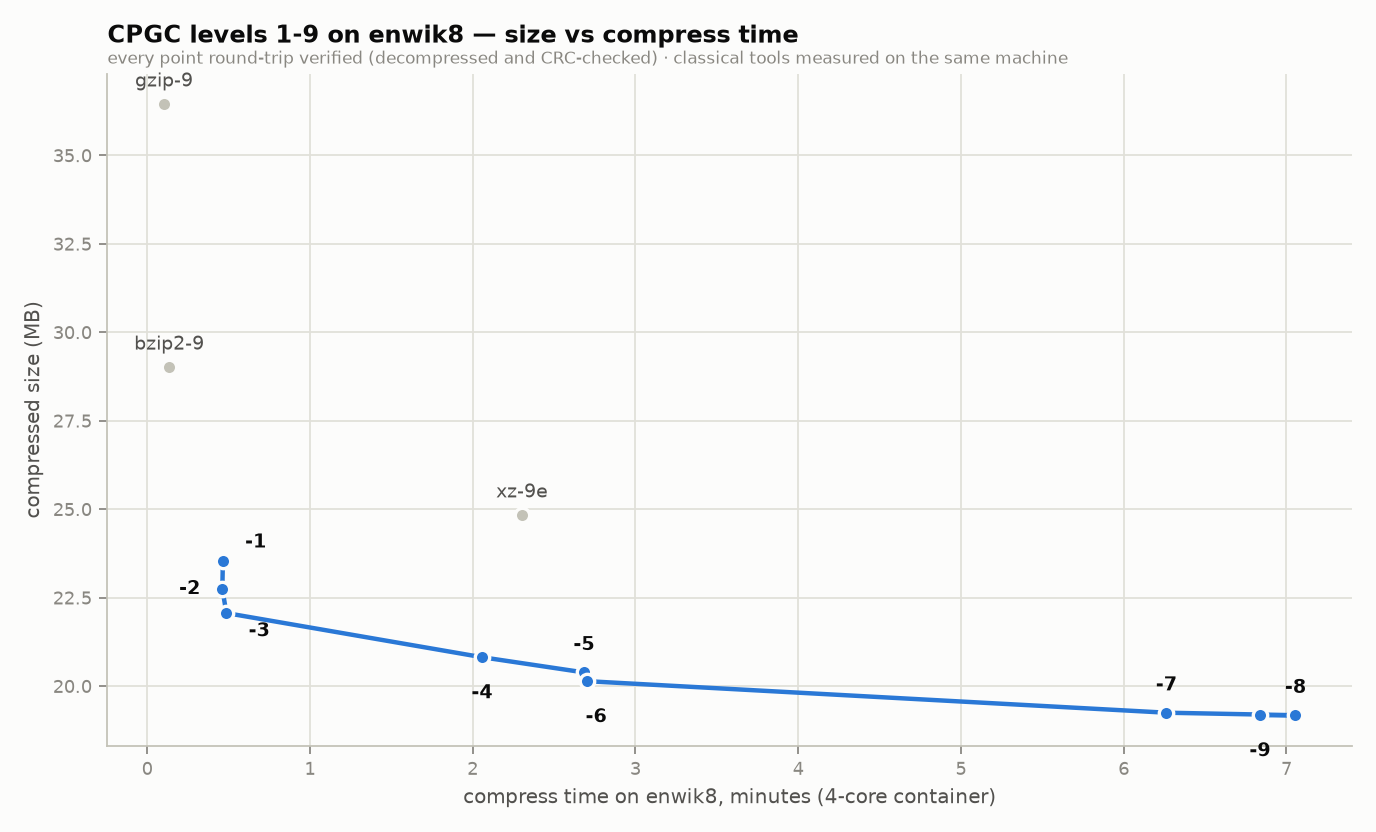
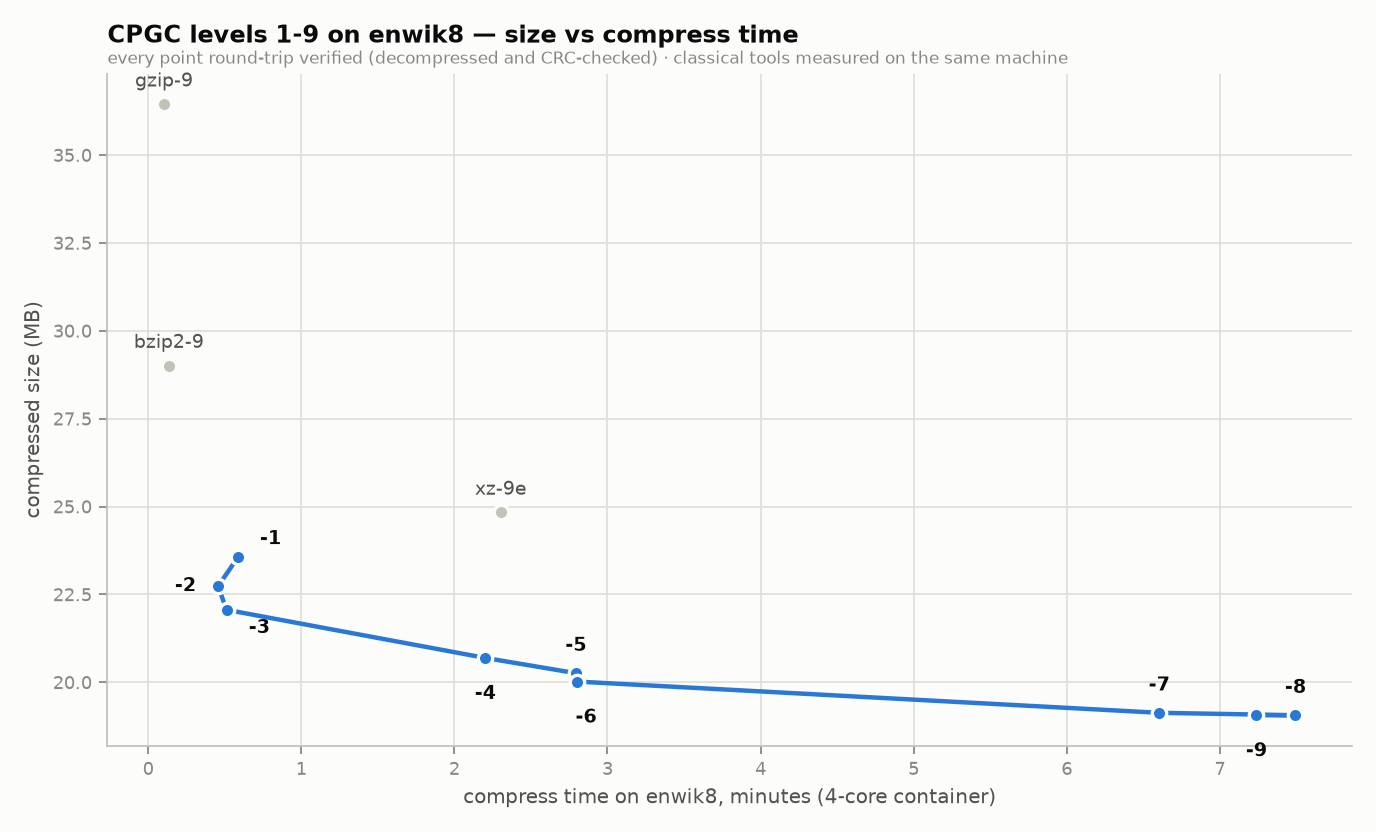
Refresh enwik8 and enwik9 benchmarks for v12
Re-run both sweeps with the v12 engine on a clean four-core container
(every level compressed and round-trip CRC-verified), refresh
results.csv and enwik9_results.csv, regenerate all three charts, and
update the README tables, headlines, and format-version reference.

enwik8 level 9 drops to 19,063,181 bytes (1.525 bpc); enwik9 level 9 to
162,750,488 bytes (1.302 bpc) — 0.6-0.7% below v11 and 5.0-5.6% below
the original v9. Every full-model level improves; turbo levels are
within measurement noise (v12's SSE-chain retune is full-profile only).

Claude-Session: https://claude.ai/code/session_012eHpCeH6DZ7CNZ9Yp9UYKc

diff --git a/README.md b/README.md
@@ -146,7 +146,7 @@ and test actions for `.cpgc` and `.cpas` archives.
 
 [enwik8](https://mattmahoney.net/dc/textdata.html) is the first 100 MB of the
 English Wikipedia dump, a standard text-compression benchmark. At level 9 CPGC
-compresses it to **19,178,089 bytes (1.534 bpc)** — smaller than every
+compresses it to **19,063,181 bytes (1.525 bpc)** — smaller than every
 general-purpose codec below; the research compressors zpaq, PAQ8, and cmix
 still lead. Every archive was round-trip decompressed and CRC-verified.
 
@@ -158,15 +158,15 @@ The nine levels trade compress time for ratio:
 
 | Level | Compressed size | Bits/byte | Compress | Decompress |
 |---:|---:|---:|---:|---:|
-| 1 | 23,539,435 B | 1.883 | 28 s | 25 s |
-| 2 | 22,743,019 B | 1.819 | 28 s | 25 s |
-| 3 | 22,065,155 B | 1.765 | 29 s | 28 s |
-| 4 | 20,818,067 B | 1.665 | 123 s | 126 s |
-| 5 | 20,388,399 B | 1.631 | 161 s | 164 s |
-| 6 | 20,140,482 B | 1.611 | 162 s | 164 s |
-| 7 | 19,249,638 B | 1.540 | 376 s | 367 s |
-| 8 | 19,178,089 B | 1.534 | 423 s | 415 s |
-| 9 | **19,178,089 B** | **1.534** | 410 s | 438 s |
+| 1 | 23,550,663 B | 1.884 | 35 s | 26 s |
+| 2 | 22,735,488 B | 1.819 | 27 s | 26 s |
+| 3 | 22,062,171 B | 1.765 | 31 s | 30 s |
+| 4 | 20,693,361 B | 1.655 | 132 s | 130 s |
+| 5 | 20,260,065 B | 1.621 | 168 s | 168 s |
+| 6 | 20,020,887 B | 1.602 | 168 s | 168 s |
+| 7 | 19,132,174 B | 1.531 | 396 s | 403 s |
+| 8 | 19,063,181 B | 1.525 | 450 s | 443 s |
+| 9 | **19,063,181 B** | **1.525** | 434 s | 446 s |
 
 Measured on a four-core container. Levels 8 and 9 currently produce identical
 archives.
@@ -175,17 +175,17 @@ archives.
 
 [enwik9](https://mattmahoney.net/dc/textdata.html) is the first 1 GB of the same
 dump — the Large Text Compression Benchmark and Hutter Prize file. At level 9
-CPGC reaches **163,890,252 bytes (1.311 bpc)**. Every archive was round-trip
+CPGC reaches **162,750,488 bytes (1.302 bpc)**. Every archive was round-trip
 decompressed and CRC-verified.
 
 ![enwik9 compressed size vs other tools](benchmarks/enwik9_sizes.png)
 
 | Level | Compressed size | Bits/byte | Compress | Decompress |
 |---:|---:|---:|---:|---:|
-| 1 | 205,675,118 B | 1.645 | 5 min | 4 min |
-| 3 | 192,017,370 B | 1.536 | 4 min | 4 min |
-| 5 | 176,029,194 B | 1.408 | 21 min | 22 min |
-| 9 | **163,890,252 B** | **1.311** | 39 min | 40 min |
+| 1 | 205,709,828 B | 1.646 | 5 min | 4 min |
+| 3 | 191,988,449 B | 1.536 | 4 min | 4 min |
+| 5 | 174,851,769 B | 1.399 | 19 min | 19 min |
+| 9 | **162,750,488 B** | **1.302** | 33 min | 34 min |
 
 Same four-core container; level 9 was capped at three workers to fit its models
 within 15 GB of RAM.
@@ -200,7 +200,7 @@ Full measurements and chart-generation scripts are in [`benchmarks/`](benchmarks
 ## Project status
 
 CPGC is experimental and its archive format is still evolving. The current
-decoder accepts format version 11 archives; retain a matching binary for older
+decoder accepts format version 12 archives; retain a matching binary for older
 archives. For important data, keep an independent copy and use `cpgc verify`
 after compression.
 
